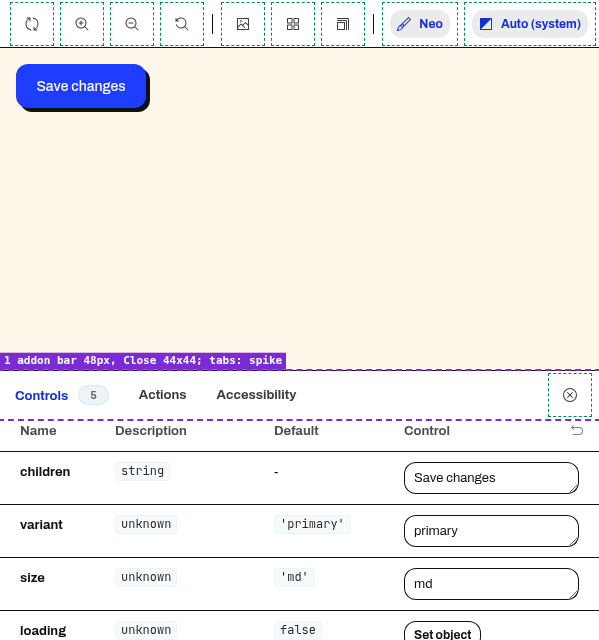
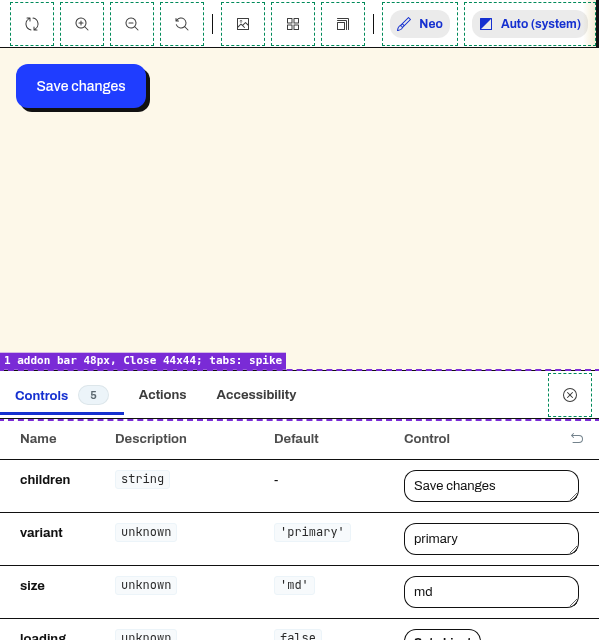
docs(storybook-brand): make the 44px hit areas tappable, toolbar scroll affordance (revision 4)
Fixes two defects in e7ba6ca's FU-SB-TOOLBAR-44 spec, found with new elementFromPoint probes:
- Storybook 8.6.19's IconButton is overflow: hidden, which clipped the ::before overlay to 28px,
  so the 44px areas weren't tappable. Below 600 the controls get overflow: visible (their content
  fits, so no pixel changes; checked).
- The addon panel content is absolute at top: 40px and covered the 48px addon bar's bottom 8px.
  It now starts at 48px.

Adds Creatives' toolbar scroll affordance below 600: a 3px --eb-border rule plus a 16px
--eb-surface-muted shade on each edge with off-screen tools (background-attachment scroll/local,
drawn under the controls). Two new vars, --eb-surface and --eb-surface-muted.

- contrast.mjs: 66 pairs, 0 failures; 48 vs #45: 13 up, 35 same, 0 down.
- overrides.cjs: 154 checks pass, including elementFromPoint at the centre, edges and corners of
  every hit area and real-pixel checks of the scroll affordance. e7ba6ca's build: 44 failures.
  Negative build: 132 failures.
- HANDOFF: Creatives' appPreviewBg ruling (A), the addon tabs spike named FU-SB-PANEL-TABS-44 (CA).
- Shots re-captured (RGB 8-bit); axe 8 runs, 0 failing.

Supersedes e7ba6ca as the head to review.

Author-bot: UX/UI Designer

diff --git a/docs/storybook-brand/mock/manager-head.html b/docs/storybook-brand/mock/manager-head.html
@@ -33,10 +33,16 @@
     .sb-bar:has(button[title="Close addon panel"]) { box-sizing: border-box; height: 48px; }
     main > .sb-bar,
     .sb-bar:has(button[title="Close addon panel"]) { padding-block: 4px; }
+    /* The addon panel's content is position: absolute; top: 40px under its bar, so the 48px bar needs the content moved down to match, or the content
+       covers the bar's bottom 8px (and the bottom of the Close hit area). Its height is 100% minus 40px in 8.6.19, so it becomes 100% minus 48px. */
+    .sb-bar:has(button[title="Close addon panel"]) + div { top: 48px !important; height: calc(100% - 48px) !important; }
     main > .sb-bar :is(button, a)[title],
     .sb-bar button[title="Open addon panel"],
     .sb-bar button[title="Close addon panel"],
-    .sidebar-header button:is([title="About Storybook"], [title="Close menu"]) { margin-inline: 8px; }
+    .sidebar-header button:is([title="About Storybook"], [title="Close menu"]) { margin-inline: 8px; overflow: visible !important; }
+    /* overflow: visible is required. Storybook 8.6.19's IconButton is overflow: hidden, which clips the ::before to the 28px box, so without it the
+       hit area is only drawn, not tappable (elementFromPoint finds the bar 1px inside the 44px edge). The controls' own content fits in 28px
+       (scrollWidth equals clientWidth with the ::before removed), so this changes no pixels; overrides.cjs checks both. */
     main > .sb-bar :is(button, a)[title]::before,
     .sb-bar button[title="Open addon panel"]::before,
     .sb-bar button[title="Close addon panel"]::before,
@@ -45,6 +51,18 @@
     .sb-bar button[title="Open navigation menu"]::before { content: ""; position: absolute; inset: -2px 0; }
     .sb-bar :is(button, a)[title]:focus-visible,
     .sidebar-header button:is([title="About Storybook"], [title="Close menu"]):focus-visible { outline: 3px solid var(--eb-focus) !important; outline-offset: 2px; }
+    /* Scroll affordance (Creatives, 2026-11-11): the top toolbar already scrolls sideways below 600px and the 44px hit areas make it longer, so each edge
+       that has off-screen tools shows a 3px --eb-border rule plus a --eb-surface-muted shade fading over 16px. The shade layers stay fixed to the bar
+       ("scroll"); two --eb-surface covers ride with the content ("local") and hide the shade at whichever end the bar is scrolled to. It's all one
+       background on the bar, drawn under the controls, so no control, label or focus ring is covered and taps aren't intercepted. Neo tokens only. */
+    main > .sb-bar {
+      background:
+        linear-gradient(to right, var(--eb-surface) 16px, transparent 24px) left center / 24px 100% no-repeat local,
+        linear-gradient(to left, var(--eb-surface) 16px, transparent 24px) right center / 24px 100% no-repeat local,
+        linear-gradient(to right, var(--eb-border) 3px, var(--eb-surface-muted) 3px, transparent 16px) left center / 16px 100% no-repeat scroll,
+        linear-gradient(to left, var(--eb-border) 3px, var(--eb-surface-muted) 3px, transparent 16px) right center / 16px 100% no-repeat scroll,
+        var(--eb-surface) !important;
+    }
     /* The 40px-tall menu button sits 4px inside the 48px bar, so its ring uses offset 0 (3px ring, 1px to spare) to stay inside the bar. */
     .sb-bar button[title="Open navigation menu"]:focus-visible { outline-offset: 0; }
   }

diff --git a/docs/storybook-brand/mock/manager.ts b/docs/storybook-brand/mock/manager.ts
@@ -56,6 +56,8 @@ const CSS_VARS = {
   '--eb-focus': '--focus-ring-color',
   '--eb-selected-text': '--accent-contrast',
   '--eb-boolean-label': '--text-muted',
+  '--eb-surface': '--surface',
+  '--eb-surface-muted': '--surface-muted',
 } as const;
 
 const build = (mode: Mode) => {

diff --git a/docs/storybook-brand/HANDOFF.md b/docs/storybook-brand/HANDOFF.md
@@ -6,10 +6,11 @@ Status: design spec, dev-ready. The builder implements it as-is. This card chang
 - The builder starts from #45's `.storybook/manager.ts` and `manager-head.html` on a new branch off main after #45 merges.
 - Every #45 contrast pass stays at or above its #45 ratio. The gate checks this pair by pair: 48 shared pairs, 13 up, 35 the same, 0 down.
 - #45's own axe check (`scripts/a11y-manager.mjs`) runs against this spec built on #45: 8 runs, 0 failing (section 3).
-- Revision 3 (this commit, superseding `f679274` and `1845ea6`): the boolean-control label fix (Known issue 2, now fixed and gated), the 44px hit areas below 600px (FU-SB-TOOLBAR-44, section 4a, which folds into this card), and the rulings on Known issues 1, 3 and 4.
+- Revision 3 (`e7ba6ca`, superseding `f679274` and `1845ea6`): the boolean-control label fix (Known issue 2, now fixed and gated), the 44px hit areas below 600px (FU-SB-TOOLBAR-44, section 4a, which folds into this card), and the rulings on Known issues 1, 3 and 4.
+- Revision 4 (this commit, superseding `e7ba6ca`): two defects in revision 3's hit areas, found with new `elementFromPoint` probes, are fixed. Storybook's buttons are `overflow: hidden`, which clipped the overlay so the 44px areas weren't tappable, and the addon panel content covered the bottom 8px of its 48px bar. Revision 4 also adds Creatives' toolbar scroll affordance and records Creatives' `appPreviewBg` ruling (section 4a).
 
 Target: the live Storybook at https://jdilig.me/ux/design-system/storybook/ (Storybook 8.6.19, @storybook/core 8.6.19).
-**Version pin.** The `manager-head.html` overrides target Storybook 8.6.19's internal markup and selectors (the selected tree row, the boolean control's spans, the toolbar and drawer controls' `title` attributes, `.sb-bar` and `.sidebar-header`). `package.json` has `"storybook": "^8.6.19"` and the installed version is 8.6.19 (`@storybook/addon-controls` 8.6.14). Any Storybook bump must re-run, before merge: the contrast gate (`contrast.mjs`, 56 pairs today; the count grows as pairs are added), both override checks (`overrides.cjs`: the selected-row and boolean-label colors, and the hit areas), and #45's manager axe (`scripts/a11y-manager.mjs`).
+**Version pin.** The `manager-head.html` overrides target Storybook 8.6.19's internal markup and selectors (the selected tree row, the boolean control's spans, the toolbar and drawer controls' `title` attributes, `.sb-bar` and `.sidebar-header`). `package.json` has `"storybook": "^8.6.19"` and the installed version is 8.6.19 (`@storybook/addon-controls` 8.6.14). Any Storybook bump must re-run, before merge: the contrast gate (`contrast.mjs`, 66 pairs today; the count grows as pairs are added), both override checks (`overrides.cjs`: the selected-row and boolean-label colors, the hit areas with their `elementFromPoint` probes, and the toolbar scroll affordance), and #45's manager axe (`scripts/a11y-manager.mjs`).
 
 Identity: Ember's neo theme (`src/tokens.json` `themes.neo`, the same values as `src/themes/neo.css` that #45 mirrors). No new colors, fonts or logo.
 
@@ -19,7 +20,7 @@ Files in this folder:
 - `mock/manager.ts` and `mock/manager-head.html` are the exact files to ship (#45's files plus this card).
 - `mock/manager.ts.diff` and `mock/manager-head.html.diff` are unified diffs from #45's files.
 - `theme-map.json` is the field-to-token map, the single source the gate reads.
-- `overrides.cjs` checks the `manager-head.html` overrides in a real build and exits 1 on any failure: the selected-row text, the boolean-control labels in both states and both modes, and the hit areas, focus rings and no-change-at-600 of section 4a.
+- `overrides.cjs` checks the `manager-head.html` overrides in a real build and exits 1 on any failure: the selected-row text, the boolean-control labels in both states and both modes, and section 4a's hit areas (geometry plus `elementFromPoint` probes), focus rings, scroll affordance (real pixels) and no-change-at-600.
 - `contrast.mjs` writes `CONTRAST.md` and exits 1 on any of: a ratio under the minimum, a pair below its #45 ratio, a token that doesn't resolve, or drift between `mock/manager.ts` and `theme-map.json`.
 - `shoot.cjs` and `mock/build.sh` produce the annotated `handoff/` shots from a scratch build of #45 plus `mock/`.
 
@@ -49,7 +50,7 @@ Color fields: #45's value (its `NEO` name and hex) next to the new neo token and
 | `colorSecondary` | blue600 `#1f3dff` / lime400 `#c6f432` | `--accent` `#1f3dff` / `--accent` `#c6f432` | none | Same value, now read from the token. |
 | `appBg` | cream `#fdf8e9` / ink `#111111` | `--color-bg` `#fdf8e9` / `--color-bg` `#111111` | none | Same value, now read from the token. |
 | `appContentBg` | paper `#ffffff` / ink2 `#1c1c1c` | `--surface` `#ffffff` / `--surface` `#1c1c1c` | none | Same value, now read from the token. |
-| `appPreviewBg` | paper `#ffffff` / paper `#ffffff` | `--surface` `#ffffff` / `--color-bg` `#111111` | **dark** | Dark: neo's dark page color. No dark neo token is #ffffff (paper is only `--highlight-contrast` there, which means text on blue). There's no contrast pair, since this only shows behind the preview iframe. Needs a Creatives OK (see Open call). |
+| `appPreviewBg` | paper `#ffffff` / paper `#ffffff` | `--surface` `#ffffff` / `--color-bg` `#111111` | **dark** | Dark: neo's dark page color. No dark neo token is #ffffff (paper is only `--highlight-contrast` there, which means text on blue). There's no contrast pair, since this only shows behind the preview iframe. Creatives picked this (see the ruling below). |
 | `appBorderColor` | gray `#6b6b6b` / gray2 `#8c8c8c` | `--border` `#111111` / `--border` `#fdf8e9` | **light + dark** | Neo's `--border` (ink in light, cream in dark). UI contrast goes up: light 5.02 to 17.79 on appBg, dark 5.62 to 17.79. |
 | `textColor` | ink `#111111` / cream `#fdf8e9` | `--text` `#111111` / `--text` `#fdf8e9` | none | Same value, now read from the token. |
 | `textInverseColor` | paper `#ffffff` / ink `#111111` | `--surface` `#ffffff` / `--color-bg` `#111111` | none | Same value, now read from the token. |
@@ -66,11 +67,11 @@ Color fields: #45's value (its `NEO` name and hex) next to the new neo token and
 | `inputBorder` | gray `#6b6b6b` / gray2 `#8c8c8c` | `--border` `#111111` / `--border` `#fdf8e9` | **light + dark** | Same as appBorderColor: neo ink borders. Light 5.33 to 18.88, dark 5.62 to 17.79. |
 | `inputTextColor` | ink `#111111` / cream `#fdf8e9` | `--text` `#111111` / `--text` `#fdf8e9` | none | Same value, now read from the token. |
 
-**Open call for Creatives:** dark `appPreviewBg`. #45 uses paper `#ffffff` in both modes. Neo's dark theme has no semantic token at `#ffffff` that means a background, so the options are:
+**Ruled by Creatives (2026-11-11): option A.** Dark `appPreviewBg`. #45 uses paper `#ffffff` in both modes. Neo's dark theme has no semantic token at `#ffffff` that means a background, so the options are:
 - **A (in this spec):** `--color-bg` `#111111`, neo's dark page color.
 - **B:** keep #45's `#ffffff` via `--highlight-contrast`, which resolves to `#ffffff` in dark but means "text on highlight".
 
-Neither has a contrast pair, because this background only shows behind the preview iframe (axe excludes the iframe, and the gate stays 0 down either way). I recommend A, because B borrows a text token for a background. Chief Architect ruled that this doesn't block the card and needs no contrast pair, since it's a canvas behind stories that set their own background; the pick is Creatives' call, and the spec ships A unless Creatives picks B (a one-token change in `theme-map.json` and `MAP`).
+Neither has a contrast pair, because this background only shows behind the preview iframe (axe excludes the iframe, and the gate stays 0 down either way). I recommend A, because B borrows a text token for a background. Chief Architect ruled that this doesn't block the card and needs no contrast pair, since it's a canvas behind stories that set their own background; Creatives picked A, because using a text token for a background is wrong. The spec ships A.
 
 Storybook keeps hard-coding the selected sidebar row text as `#FFFFFF`. #45 overrides it to `#111111` in dark only, and this spec sets it from `--accent-contrast` in both modes. Light is `#ffffff`, so nothing changes there; dark is `#111111`, the same as #45 (14.74, not the 15.1 #45's comment says).
 
@@ -84,6 +85,8 @@ CSS custom properties (`manager.ts` sets them on `<html>` from `src/tokens.json`
 | `--eb-focus` | Brand link focus ring | `--focus-ring-color` | `#e0217a` | `#e0217a` |
 | `--eb-selected-text` | Selected sidebar row text and icon (#45 set #111111 in dark only; light stays Storybook's #ffffff) | `--accent-contrast` | `#ffffff` | `#111111` |
 | `--eb-boolean-label` | Boolean control's unselected label (Known issue 2; #45 kept Storybook's 50% `textColor`) | `--text-muted` | `#3d3d3d` | `#cfc8b0` |
+| `--eb-surface` | Toolbar background below 600px, and the covers that hide the scroll shade at an end the bar is scrolled to (equals `barBg`) | `--surface` | `#ffffff` | `#1c1c1c` |
+| `--eb-surface-muted` | Toolbar scroll shade below 600px (section 4a) | `--surface-muted` | `#f3ecd2` | `#272727` |
 
 ## 2. Brand mark (new; #45 kept Storybook's)
 
@@ -100,7 +103,7 @@ CSS custom properties (`manager.ts` sets them on `<html>` from `src/tokens.json`
 
 Output:
 ```
-56 pairs checked, 0 failures; 48 pairs compared with #45: 13 up, 35 same, 0 down
+66 pairs checked, 0 failures; 48 pairs compared with #45: 13 up, 35 same, 0 down
 ```
 Exit 0. Full table with both columns: [CONTRAST.md](CONTRAST.md).
 
@@ -113,18 +116,30 @@ New in revision 3 (4 pairs, 2 per mode):
 | light | Toolbar control focus ring below 600px, `--eb-focus` `#e0217a` on `barBg` `#ffffff` | new | 4.50, pass |
 | dark | Toolbar control focus ring below 600px, `--eb-focus` `#e0217a` on `barBg` `#1c1c1c` | new | 3.79, pass |
 
+New in revision 4 (the toolbar scroll affordance, section 4a; 10 pairs, 5 per mode, all new):
+
+| Pair | Light | Dark |
+|---|---|---|
+| Toolbar labels and icons over the shade, `barTextColor` on `--eb-surface-muted` (4.5) | `#3d3d3d` on `#f3ecd2` 9.18 | `#cfc8b0` on `#272727` 8.92 |
+| Selected toolbar tool over the shade, `barSelectedColor` on `--eb-surface-muted` (4.5) | `#1530d0` on `#f3ecd2` 7.50 | `#c6f432` on `#272727` 11.66 |
+| Focus ring over the shade, `--eb-focus` on `--eb-surface-muted` (3) | 3.80 | 3.32 |
+| Focus ring over the edge rule, `--eb-focus` on `--eb-border` (3) | 4.20 (on `#111111`) | 4.24 (on `#fdf8e9`) |
+| Edge rule, `--eb-border` on `barBg` (3) | 18.88 | 16.05 |
+
 The boolean selected label was already in the gate and keeps Storybook's `textColor` (no override): 18.88 light (`#111111` on `#ffffff`) and 14.07 dark (`#fdf8e9` on `#272727`), the same as #45.
 
 Measured in the real build (`overrides.cjs`, Button "Disabled" story, Controls panel, 1280, with the control in both states): light unselected `#3d3d3d` on `#f3ecd2` 9.18 and selected `#111111` on `#ffffff` 18.88; dark unselected `#cfc8b0` on `#111111` 11.28 and selected `#fdf8e9` on `#272727` 14.07. These match the gate.
 
-`overrides.cjs` result on the #45 + `mock/` build: "all override checks pass", exit 0 (104 checks).
+`overrides.cjs` result on the #45 + `mock/` build: "all override checks pass", exit 0 (154 checks).
+
+The same `overrides.cjs` against a build of revision 3 (`e7ba6ca`): exit 1, 44 failures. 36 are `elementFromPoint` probes: 18 controls at each of 320 and 599, where only the centre point hits and the 1px-inside edge and corner points hit the bar instead (only the menu button, which was already `overflow: visible`, passes). The other 8 are the six scroll-affordance pixel checks and the two addon-content checks (content at 411, under the 419 bar bottom). Revision 3's geometry-only check had passed these.
 
 Negative controls (scratch copies):
 - `theme-map.json` and `manager.ts` out of sync: FAIL drift, exit 1.
 - `textMutedColor` set to `--accent-soft` in both modes: 2 FAIL rows per mode (4 total), exit 1.
 - `textMutedColor` set to `--border-subtle` (5.02 to 5.62, so it clears 4.5 but is under #45's 10.18 to 11.28): 4 "FAIL below #45" rows, exit 1.
 - A token that doesn't exist: a FAIL lint line, exit 1, with no stack trace.
-- `overrides.cjs` against a copy of the build with the boolean override and the below-600 block removed: exit 1. The 4 boolean rows fail at exactly #45's values (`#827f72` on `#f3ecd2` 3.39 light, `#87857d` on `#111111` 5.11 dark), and every below-600 bar and hit-area row fails (88 failures in total).
+- `overrides.cjs` against a copy of the build with the boolean override and the below-600 block removed: exit 1. The 4 boolean rows fail at exactly #45's values (`#827f72` on `#f3ecd2` 3.39 light, `#87857d` on `#111111` 5.11 dark), and every below-600 bar, hit-area, probe and scroll-affordance row fails (132 failures in total).
 
 axe: #45's `scripts/a11y-manager.mjs` runs on a build of `fix/sb-manager-aa` @ `79f89b7` with `mock/` copied in (light and dark, 1280 and 375, story and docs page). Result: "axe manager: 8 runs (light + dark x 1280/375 x story + docs page), 0 failing", the same as #45.
 
@@ -148,10 +163,10 @@ Controls present below 600 in Storybook 8.6.19 (measured in this build at 320 an
 
 | Where | Control (`title`) | Visual | Hit area | Method |
 |---|---|---|---|---|
-| Top toolbar (`main > .sb-bar`, scrolls sideways) | Remount component, Zoom in, Zoom out, Reset zoom, Change the background of the preview, Apply a grid to the preview, Change the size of the preview, Enable measure, Apply outlines to the preview, Vision simulator, Select CSS pseudo states, Open canvas in new tab (a link), Copy canvas link | 28x28 | 44x44 | `::before` overlay, `inset: -8px`, plus `margin-inline: 8px` |
+| Top toolbar (`main > .sb-bar`, scrolls sideways) | Remount component, Zoom in, Zoom out, Reset zoom, Change the background of the preview, Apply a grid to the preview, Change the size of the preview, Enable measure, Apply outlines to the preview, Vision simulator, Select CSS pseudo states, Open canvas in new tab (a link), Copy canvas link | 28x28 | 44x44 | `::before` overlay, `inset: -8px`, plus `margin-inline: 8px` and `overflow: visible` |
 | Top toolbar | Theme ("Neo"), Color mode ("Auto (system)") | 60x28, 116x28 | 76x44, 132x44 | the same overlay; only the height needed it |
 | Bottom bar (`.sb-bar` holding the menu button) | Open navigation menu (the drawer toggle, with the breadcrumb) | 216x40 | 216x44 | `::before` overlay, `inset: -2px 0` (it was `position: static`, so it gets `position: relative`) |
-| Bottom bar | Open addon panel | 28x28 | 44x44 | `::before` overlay, `inset: -8px`, plus `margin-inline: 8px` |
+| Bottom bar | Open addon panel | 28x28 | 44x44 | `::before` overlay, `inset: -8px`, plus `margin-inline: 8px` and `overflow: visible` |
 | Drawer header (`.sidebar-header`) | About Storybook, Close menu | 28x28 | 44x44 | the same as the 28px toolbar controls |
 | Addon panel bar (`.sb-bar` holding the Close button) | Close addon panel | 28x28 | 44x44 | the same |
 
@@ -160,17 +175,26 @@ Not present below 600: Show sidebar and Go full screen (Storybook only renders t
 Why a `::before` overlay, and not the other two methods:
 - **min-size** would grow the button box itself, and Storybook paints the hover and active chip on that box, so the visible chip would grow from 28 to 44. That changes the visual size.
 - **Padding with a negative margin** keeps the layout box the same, but the controls sit on a 34px pitch (28px plus a 6px gap), so 44px areas would overlap their neighbours, and an overlapping area makes a tap ambiguous.
-- **The overlay** paints nothing and is part of the button for hit-testing, so a tap anywhere in the 44px square activates that control. In 8.6.19 none of these controls has a `::before` or `::after`, and all except the menu button are already `position: relative`. The 8px side margins move the pitch to 50px or more (Storybook's separators add space), so neighbouring overlays never overlap.
+- **The overlay** paints nothing and is part of the button for hit-testing, so a tap anywhere in the 44px square activates that control. In 8.6.19 none of these controls has a `::before` or `::after`, and all except the menu button are already `position: relative`. The 8px side margins move the pitch to 50px or more (Storybook's separators add space), so each 44x44 area has at least 6px of clear space to the next and neighbouring areas never overlap. The controls themselves stay 28px visually and widths aren't clamped.
+- **`overflow: visible` is required (revision 4).** Storybook 8.6.19's IconButton is `overflow: hidden`, which clips the overlay to the 28px box, so revision 3's 44px areas were drawn but not tappable: `elementFromPoint` 1px inside the 44px edge returned the bar, not the button. Below 600 these controls get `overflow: visible !important`. Their own content fits the 28px box (`overrides.cjs` checks `scrollWidth` and `scrollHeight` against the client size with every `::before` removed), so no pixel of the controls changes.
 
 Bars: the top bar scrolls sideways (`overflow-x: auto`, so `overflow-y` computes to `hidden`) and the addon panel bar is `overflow: hidden`, so a 44px overlay would be clipped in their 40px. Below 600 both bars, and the bottom bar for consistency, become 48px (`box-sizing: border-box`, plus 4px top and bottom padding on the top and addon bars to center the 40px content row). The preview gets 8px shorter at the top and the bottom; nothing reflows sideways and nothing clips. The top toolbar's scroll width goes from 680 to 920px, which it already scrolls.
 
-Focus ring: neo's `--focus-ring-color` (via `--eb-focus`), 3px solid, offset 2px, on `:focus-visible`. On `barBg` it's 4.50 light and 3.79 dark (3:1 or better, in the gate). Ring plus offset is 5px, so a 28px control's ring is 38px tall and fits inside the 48px bar and the 44px drawer header. The 40px menu button uses offset 0 (a 46px ring in a 48px bar), so it isn't clipped either.
+Addon panel content (revision 4): in 8.6.19 the content under the addon bar is `position: absolute; top: 40px; height: calc(100% - 40px)`, so in revision 3 it covered the bottom 8px of the 48px bar and of the Close button's hit area. Below 600 it becomes `top: 48px; height: calc(100% - 48px)` (selector `.sb-bar:has(button[title="Close addon panel"]) + div`). `overrides.cjs` checks that the content starts at the bar's bottom edge and still ends at the panel's bottom.
 
-Verified by `overrides.cjs` at 320 and 599: every control above has a hit area of at least 44x44 inside its bar or header, with no overlap between neighbours; every focus ring is `:focus-visible`, solid `#e0217a`, and unclipped; and there's no page-level sideways overflow. At 600 and 1280 every bar is 40px with 28px controls and no overlay. #45's axe at 375 (story and docs page, both modes) still passes.
+Scroll affordance (Creatives, revision 4): the top toolbar scrolls sideways more than before, so off-screen tools have to be discoverable. Each edge that has tools past it shows a 3px `--eb-border` rule plus a `--eb-surface-muted` shade fading to transparent over 16px. An edge with nothing past it shows plain `--eb-surface`: at scroll start only the right edge is marked, in the middle both are, and at the end only the left is. It's all one multi-layer background on `main > .sb-bar`. The two shade layers use `background-attachment: scroll`, so they stay at the bar's edges. Two `--eb-surface` covers, solid for 16px and then fading out by 24px, use `local`, so they ride with the content and hide the shade at whichever end is reached. Because it's the bar's background, it sits under the controls: no control, label or focus ring is covered and no tap is intercepted. It uses neo tokens only (two new vars, section 1), and the contrast of everything that can sit over it is gated (section 3). There's no motion, since the shade follows the scroll position directly. This applies only to the top toolbar; the bottom bar doesn't scroll, and the addon tab row is the FU-SB-PANEL-TABS-44 spike.
+
+Focus ring: neo's `--focus-ring-color` (via `--eb-focus`), 3px solid, an outer offset of 2px, on `:focus-visible`. On `barBg` it's 4.50 light and 3.79 dark, over the scroll shade 3.80 and 3.32, and over the edge rule 4.20 and 4.24 (3:1 or better, all in the gate). Ring plus offset is 5px, so a 28px control's ring is 38px tall and fits inside the 48px bar and the 44px drawer header. The 40px menu button uses offset 0 (a 46px ring in a 48px bar), so it isn't clipped either.
+
+Verified by `overrides.cjs` at 320 and 599, and the same script is VQA's check on BED's build:
+- **Geometry:** every control above has a hit area of at least 44x44 inside its bar or header, with no overlap between neighbours; every focus ring is `:focus-visible`, solid `#e0217a`, and unclipped; and there's no page-level sideways overflow.
+- **`elementFromPoint` probes:** for every control, the bar is scrolled so its 44x44 box is fully in view. Then the centre, the four edge midpoints and the four corners, each 1px inside the box, must all resolve to that control (`elementFromPoint(x, y).closest('button, a')`). For the toolbar and bottom-bar controls, a point 1px outside the box's left and right edges must not.
+- **Scroll affordance:** real screen pixels 2px below the top bar's top edge and 1px in from each side, with the bar scrolled to the start, the middle and the end. Each must be `--eb-border` where tools are off-screen and `--eb-surface` where none are.
+- **Content fit:** with every `::before` removed, each control's content fits its own box, so `overflow: visible` changes nothing visible. At 600 and 1280 every bar is 40px with 28px controls and no overlay. #45's axe at 375 (story and docs page, both modes) still passes.
 
 Selectors: Storybook 8.6.19 has no `[role=toolbar]` and no `aria-label` on these controls, so role and aria selectors aren't available. The spec uses `title` attributes, plus `.sb-bar` and `.sidebar-header`, which are Storybook's stable unhashed class names. It never uses the hashed `css-*` classes. All of it is pinned to 8.6.19 (see the version pin at the top).
 
-Not measured, so this part would mean guessing at Storybook internals (for Creatives, and a BED spike):
+Not measured, so this part would mean guessing at Storybook internals. It's a BED spike, **FU-SB-PANEL-TABS-44**, accepted by Chief Architect (the tabs pass WCAG 2.5.8 AA at 40px) and not a blocker:
 - **The addon panel's tabs** (Controls, Actions, Accessibility, and the "Addons" overflow menu) are 40px tall, inside a container with `overflow: hidden` whose overflow menu Storybook drives from measured tab widths in JS. A 44px overlay there would be clipped by that container, and changing tab sizes might change which tabs collapse into the menu. I left them at 40px. The spike should find out whether making the tab row 48px tall (with `inset: -2px 0` on each tab) keeps Storybook's tab-collapse logic correct at 320 and 599.
 - **The drawer's search field** (28px tall) and **sidebar tree rows**, and the Controls panel's own inputs, aren't toolbar controls and aren't in this card. They'd go in a separate follow-up if wanted.
 
@@ -187,9 +211,9 @@ Storybook 8.6's manager has no `prefers-reduced-motion` handling (#45 didn't add
 | `sb-brand-320-light.png`, `sb-brand-320-dark.png` | Mobile drawer open: 1 the brand link (176x44) with its focus ring, 2 the selected row, 3 the search field |
 | `sb-brand-768-light.png`, `sb-brand-768-dark.png` | Collapsed sidebar: 1 the toolbar, 2 Show sidebar (28x28, unchanged at 600 and up, Known issue 3) |
 | `sb-brand-1280-light.png`, `sb-brand-1280-dark.png` | Desktop: 1 the brand link (219x44) with its focus ring, 2 the search field, 3 the selected row, 4 the toolbar |
-| `sb-toolbar-hit-320-light.png`, `sb-toolbar-hit-320-dark.png`, `sb-toolbar-hit-599-light.png`, `sb-toolbar-hit-599-dark.png` | Section 4a, story view: dashed green boxes are each control's 44px hit area in the 48px top and bottom bars; 1 Zoom in with its focus ring; 2 the bars |
+| `sb-toolbar-hit-320-light.png`, `sb-toolbar-hit-320-dark.png`, `sb-toolbar-hit-599-light.png`, `sb-toolbar-hit-599-dark.png` | Section 4a, story view: dashed green boxes are each control's 44px hit area in the 48px top and bottom bars, on a 50px or wider pitch; 1 Zoom in with its focus ring; 2 the bars, 48px; 3 the scroll affordance at the right edge (the toolbar is at its scroll start) |
 | `sb-toolbar-hit-320-drawer-light.png`, `sb-toolbar-hit-599-drawer-light.png` | Section 4a, drawer open: 1 About Storybook and Close menu with 44x44 hit areas |
-| `sb-toolbar-hit-320-addons-light.png`, `sb-toolbar-hit-599-addons-light.png` | Section 4a, addon panel open: 1 the 48px addon bar with Close addon panel at 44x44; the tabs stay 40px (BED spike) |
+| `sb-toolbar-hit-320-addons-light.png`, `sb-toolbar-hit-599-addons-light.png` | Section 4a, addon panel open: 1 the 48px addon bar with Close addon panel at 44x44 and the content starting under it; the tabs stay 40px (FU-SB-PANEL-TABS-44) |
 
 The annotation boxes (green for targets and hit areas, purple for color callouts) are an overlay added at capture time, not part of the design. The docs content inside the preview iframe isn't part of this card (Known issue 4).
 
@@ -201,12 +225,12 @@ The annotation boxes (green for targets and hit areas, purple for color callouts
    - **Replaced:** #45's `NEO` hex object, `shared`, and the two `create()` literals become `MAP` (field to `[lightToken, darkToken]`, read from `src/tokens.json` `themes.neo`, an esbuild JSON import) and `build(mode)`, which returns `create({ base, brand…, fonts and radii from themes.neo.shape, ...colors })`. Then `themes = { light: build('light'), dark: build('dark') }`. This also fixes #45's own note that the hexes had to be hand-mirrored.
    - **Added:**
      - the 4 `@fontsource` CSS imports (archivo-black 400, archivo 400 and 700, jetbrains-mono 400). They're already dependencies, used by preview.tsx, and the 8.6 manager build bundles them; verified that "Archivo Black" loads.
-     - `CSS_VARS` and `applyVars(mode)`, which set the six `--eb-*` vars on `document.documentElement`.
+     - `CSS_VARS` and `applyVars(mode)`, which set the eight `--eb-*` vars on `document.documentElement`.
      - the dark-mode switch: `mq = matchMedia('(prefers-color-scheme: dark)')`. At load it calls `applyVars(mode)` and `addons.setConfig({ theme: themes[mode] })`, which replaces #45's one-shot `prefersDark` line. On `mq`'s `change` event it calls `applyVars(mode)` and `addons.setConfig({ theme: themes[mode] })` again, so the manager re-themes without a reload.
 3. **`manager-head.html`, against #45's file:**
    - **Kept:** the title, and #45's selector `#storybook-explorer-tree [data-selected="true"]` (plus its `svg`).
    - **Changed:** that rule's color moves out of the dark-only media query to `var(--eb-selected-text)` in both modes, with `!important`. Light resolves to `#ffffff`, so it's unchanged.
-   - **Added:** `.ember-brand`, `.ember-brand__blob`, the `a:has(> .ember-brand)` 44px target and focus ring, the boolean-control label rule (`label:has(> input[role="switch"]…) > span[aria-hidden="true"]`, unselected span only, `color: var(--eb-boolean-label) !important`), the `@media (max-width: 599px)` hit-area block (section 4a), and the reduced-motion block.
+   - **Added:** `.ember-brand`, `.ember-brand__blob`, the `a:has(> .ember-brand)` 44px target and focus ring, the boolean-control label rule (`label:has(> input[role="switch"]…) > span[aria-hidden="true"]`, unselected span only, `color: var(--eb-boolean-label) !important`), the `@media (max-width: 599px)` block (section 4a: the hit areas with `overflow: visible`, the 48px bars, the addon content offset, the toolbar scroll affordance and the focus ring), and the reduced-motion block.
 4. Keep `theme-map.json` and `MAP`/`CSS_VARS` identical, because `contrast.mjs` fails on drift. If the builder adds it to CI, the command is `node docs/storybook-brand/contrast.mjs`.
 5. Check the real build:
    - `npm run test:a11y`, including #45's manager axe: 8 runs, 0 failing.
@@ -216,7 +240,7 @@ The annotation boxes (green for targets and hit areas, purple for color callouts
    - Tab reaches the brand link with a pink 3px ring, and the link is 44px tall.
    - At 600-1023 the sidebar starts collapsed.
    - `NODE_PATH=<playwright-core dir> node docs/storybook-brand/overrides.cjs http://127.0.0.1:<port>/` passes ("all override checks pass", exit 0).
-   - Below 600, every control in section 4a is tappable across its 44px square and nothing in the bars is clipped; at 600 and up the toolbar looks exactly as it does today.
+   - Below 600, every control in section 4a is tappable across its 44px square (the `elementFromPoint` probes in `overrides.cjs`), nothing in the bars is clipped, and the toolbar shows the edge rule only where tools are off-screen. At 600 and up the toolbar looks exactly as it does today.
 
 Reproduce: `bash docs/storybook-brand/mock/build.sh <installed node_modules> [base-ref]`. The base ref defaults to `origin/fix/sb-manager-aa`; use `origin/main` once #45 merges. Serve the printed `out` on 127.0.0.1:8961, then run:
 - `node scripts/a11y-manager.mjs http://127.0.0.1:8961` from the scratch dir
@@ -227,5 +251,5 @@ Reproduce: `bash docs/storybook-brand/mock/build.sh <installed node_modules> [ba
 
 1. **Sidebar node-type icons, waived.** Storybook colors them itself: document `#ff8300`, story `#37d5d3`, component `--text-muted` at 60% opacity. On light cream, document is 2.33 and story is 1.70; on dark ink they pass (6.45 to 10.45). Each icon sits next to a text label that carries the meaning. Chief Architect waived this as decorative under WCAG 1.4.11 (Chief Architect review of #52, 2026-11-11 12:52 AM PT). Not in the gate, and #45's axe passes with them.
 2. **Boolean control label, fixed in this revision.** Storybook 8.6.19 paints the unselected label as `transparentize(.5, textColor)`: `#827f72` on `#f3ecd2` is 3.39 in light (under 4.5) and `#87857d` on `#111111` is 5.11 in dark. #45 doesn't override it. `manager-head.html` now sets the unselected span to `var(--eb-boolean-label)` (neo `--text-muted`): 9.18 light and 11.28 dark. The selected span keeps Storybook's `textColor`, 18.88 light and 14.07 dark. I used `--text-muted` rather than `--text` so the selected label still reads as the stronger of the two. Both labels are in the gate in both modes and measured in the real build (section 3). The selector targets Storybook 8.6.19's `BooleanControl` markup (`label` > `input[role="switch"]`, then two `span[aria-hidden="true"]`, False then True), so it's covered by the version pin. The segment-vs-track difference (1.18 light, 1.26 dark) is unchanged from #45; the selected segment is also marked by Storybook's ring and the stronger label.
-3. **Toolbar controls at 600px and up, waived; below 600, specced.** At 600 and up they stay Storybook's 28x28, which passes WCAG 2.5.8 AA (24px). Chief Architect waived neo's 44px `--target-min` there, tracked against the 44px aim as FU-SB-TOOLBAR-44. Below 600, FU-SB-TOOLBAR-44 now folds into this card (Creatives, from CTE): section 4a gives every control there a 44x44 hit area. Open for a BED spike: the addon panel tabs (section 4a).
+3. **Toolbar controls at 600px and up, waived; below 600, specced.** At 600 and up they stay Storybook's 28x28, which passes WCAG 2.5.8 AA (24px). Chief Architect waived neo's 44px `--target-min` there, tracked against the 44px aim as FU-SB-TOOLBAR-44. Below 600, FU-SB-TOOLBAR-44 now folds into this card (Creatives, from CTE): section 4a gives every control there a 44x44 hit area. The addon panel tabs stay 40px and go to the BED spike FU-SB-PANEL-TABS-44 (section 4a), which Chief Architect accepted as non-blocking.
 4. **The preview iframe's docs and canvas content, out of scope; filed as FU-STORYBOOK-DOCS-THEME.** It keeps the preview's styling (Ember components plus Storybook's default docs theme, which stays light in dark mode). Theming it is `preview.tsx` `parameters.docs.theme`, a separate card.

diff --git a/docs/storybook-brand/CONTRAST.md b/docs/storybook-brand/CONTRAST.md
@@ -1,6 +1,6 @@
 # Storybook brand contrast
 
-56 pairs checked, 0 failures. Text 4.5:1, UI and focus 3:1 (WCAG 2.2 AA 1.4.3, 1.4.11). Each pair #45 (SB-MANAGER-AA, 79f89b7) also has must be at or above its #45 ratio; "new" means #45 has no such pair (brand mark). Generated by contrast.mjs from src/tokens.json (themes.neo) via theme-map.json; mock/manager.ts is checked against the same map.
+66 pairs checked, 0 failures. Text 4.5:1, UI and focus 3:1 (WCAG 2.2 AA 1.4.3, 1.4.11). Each pair #45 (SB-MANAGER-AA, 79f89b7) also has must be at or above its #45 ratio; "new" means #45 has no such pair (brand mark). Generated by contrast.mjs from src/tokens.json (themes.neo) via theme-map.json; mock/manager.ts is checked against the same map.
 
 | Mode | Kind | Where | Foreground | Background | Min | #45 ratio | New ratio | Result |
 |---|---|---|---|---|---|---|---|---|
@@ -26,6 +26,11 @@
 | light | ui | Button border | buttonBorder `#111111` | buttonBg `#ffffff` | 3 | 5.33 | 18.88 | pass, up |
 | light | ui | Selected sidebar row fill | colorSecondary `#1f3dff` | appBg `#fdf8e9` | 3 | 6.24 | 6.24 | pass, same |
 | light | ui | Toolbar selected indicator | barSelectedColor `#1530d0` | barBg `#ffffff` | 3 | 8.88 | 8.88 | pass, same |
+| light | text | Toolbar labels and icons over the scroll shade below 600px (--eb-surface-muted, manager-head.html) | barTextColor `#3d3d3d` | --eb-surface-muted `#f3ecd2` | 4.5 | new | 9.18 | pass |
+| light | text | Toolbar selected tool over the scroll shade below 600px | barSelectedColor `#1530d0` | --eb-surface-muted `#f3ecd2` | 4.5 | new | 7.50 | pass |
+| light | focus | Toolbar focus ring over the scroll shade below 600px | --eb-focus `#e0217a` | --eb-surface-muted `#f3ecd2` | 3 | new | 3.80 | pass |
+| light | focus | Toolbar focus ring over the scroll edge rule below 600px | --eb-focus `#e0217a` | --eb-border `#111111` | 3 | new | 4.20 | pass |
+| light | ui | Toolbar scroll edge rule below 600px (--eb-border, manager-head.html) | --eb-border `#111111` | barBg `#ffffff` | 3 | new | 18.88 | pass |
 | light | ui | Brand mark outline (blob border) | --eb-border `#111111` | appBg `#fdf8e9` | 3 | new | 17.79 | pass |
 | light | focus | Brand link focus ring | --eb-focus `#e0217a` | appBg `#fdf8e9` | 3 | new | 4.24 | pass |
 | light | focus | Brand link focus ring vs wordmark | --eb-focus `#e0217a` | --eb-text `#111111` | 3 | new | 4.20 | pass |
@@ -54,6 +59,11 @@
 | dark | ui | Button border | buttonBorder `#fdf8e9` | buttonBg `#272727` | 3 | 4.44 | 14.07 | pass, up |
 | dark | ui | Selected sidebar row fill | colorSecondary `#c6f432` | appBg `#111111` | 3 | 14.74 | 14.74 | pass, same |
 | dark | ui | Toolbar selected indicator | barSelectedColor `#c6f432` | barBg `#1c1c1c` | 3 | 13.30 | 13.30 | pass, same |
+| dark | text | Toolbar labels and icons over the scroll shade below 600px (--eb-surface-muted, manager-head.html) | barTextColor `#cfc8b0` | --eb-surface-muted `#272727` | 4.5 | new | 8.92 | pass |
+| dark | text | Toolbar selected tool over the scroll shade below 600px | barSelectedColor `#c6f432` | --eb-surface-muted `#272727` | 4.5 | new | 11.66 | pass |
+| dark | focus | Toolbar focus ring over the scroll shade below 600px | --eb-focus `#e0217a` | --eb-surface-muted `#272727` | 3 | new | 3.32 | pass |
+| dark | focus | Toolbar focus ring over the scroll edge rule below 600px | --eb-focus `#e0217a` | --eb-border `#fdf8e9` | 3 | new | 4.24 | pass |
+| dark | ui | Toolbar scroll edge rule below 600px (--eb-border, manager-head.html) | --eb-border `#fdf8e9` | barBg `#1c1c1c` | 3 | new | 16.05 | pass |
 | dark | ui | Brand mark outline (blob border) | --eb-border `#fdf8e9` | appBg `#111111` | 3 | new | 17.79 | pass |
 | dark | focus | Brand link focus ring | --eb-focus `#e0217a` | appBg `#111111` | 3 | new | 4.20 | pass |
 | dark | focus | Brand link focus ring vs wordmark | --eb-focus `#e0217a` | --eb-text `#fdf8e9` | 3 | new | 4.24 | pass |
